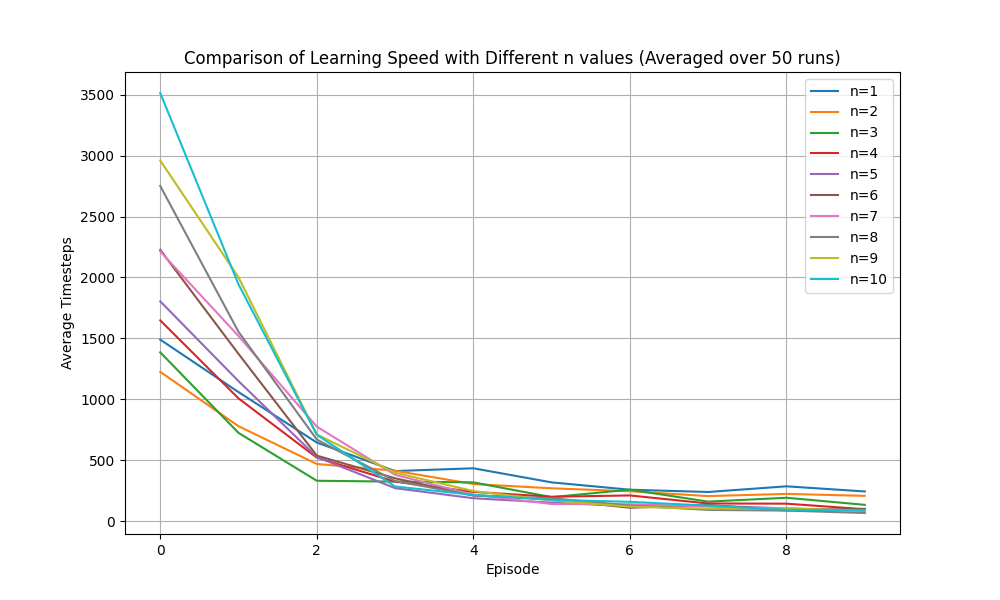
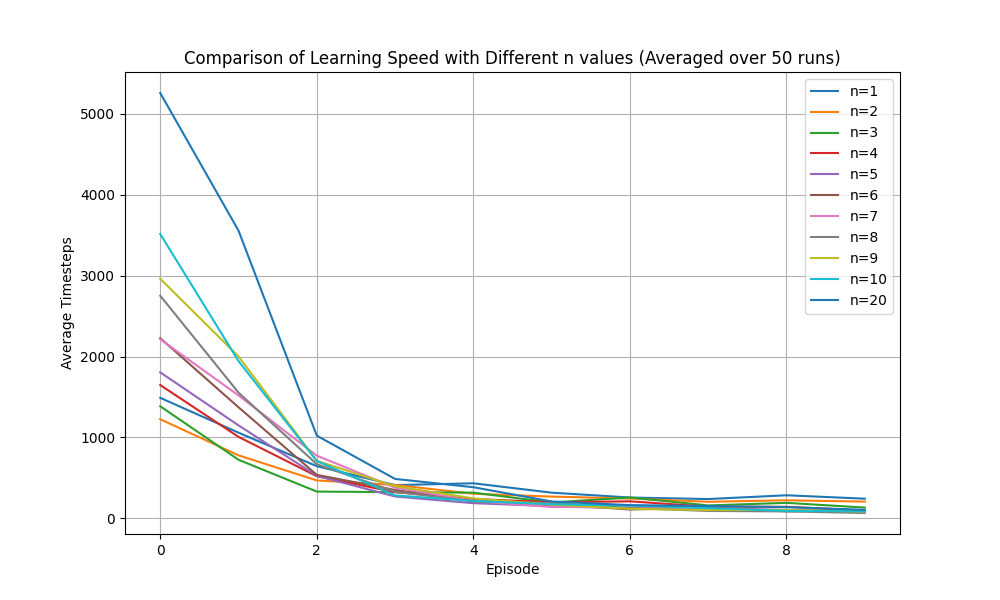
sarsa lambda

diff --git a/experiments/wendy_grid_world/sarsa_lambda.py b/experiments/wendy_grid_world/sarsa_lambda.py
@@ -1,0 +1,74 @@
+"""
+    Use Sarsa Lambda to solve Wendy Grid World
+"""
+
+# TODO: Why setting gamma=1 and lambda=1 will cause divergence of Q? Seems like the variance is too big.
+
+import os
+import numpy as np
+import matplotlib.pyplot as plt
+
+from tqdm import tqdm
+from utils.misc_utils import set_seed
+from traditional_algos.td_learning.sarsa import SarsaLambda
+from envs.grid_world import WindyGridWorld
+
+class SarsaLambdaWithLogging(SarsaLambda):
+    def estimation_and_control(self, num_episode):
+        self.reset()
+        episode_lengths = []  # List to record the length of each episode
+        for _ in range(num_episode):
+            state, info = self.env.reset()
+            done = False
+            action = np.random.choice(np.arange(self.num_action), p=self.policy[state])
+            
+            t = 0  # Time step
+
+            while not done:
+                next_state, reward, terminated, truncated, info = self.env.step(action)
+                done = terminated or truncated
+                next_action = self.update_q_function(state, action, reward, next_state)
+                self.improve_policy(state)
+                state = next_state
+                action = next_action
+
+                t += 1  # Increment the time step
+
+            episode_lengths.append(t)  # Record the length of the current episode
+
+        return episode_lengths
+
+if __name__ == '__main__':
+    set_seed()
+    log_dir = os.path.dirname(os.path.abspath(__file__))
+    ##### 0. Load environment #####
+    env = WindyGridWorld(max_episode_length=False)
+    
+    # Instantiate the SarsaLambdaWithLogging class with different values of λ
+    lambda_values = [0.0, 0.1, 0.2, 0.5, 0.8, 0.9, 0.92, 0.95, 0.97, 0.99, 1.0]  # λ values from 0.0 to 1.0
+    
+    num_episode = 10
+    num_runs = 50
+
+    plt.figure(figsize=(10, 6))
+
+    for lambda_ in lambda_values:
+        all_runs_episode_lengths = []
+        for _ in tqdm(range(num_runs), desc=f'λ={lambda_:.2f}', leave=False):
+            agent = SarsaLambdaWithLogging(env=env, gamma=0.9, lambda_=lambda_)
+            episode_lengths = agent.estimation_and_control(num_episode=num_episode)
+            all_runs_episode_lengths.append(episode_lengths)
+        
+        # Compute the average episode lengths across runs
+        avg_episode_lengths = np.mean(all_runs_episode_lengths, axis=0)
+        
+        # Plot the average episode lengths for this λ value
+        plt.plot(range(num_episode), avg_episode_lengths, label=f"λ={lambda_:.1f}")
+
+    plt.xlabel('Episode')
+    plt.ylabel('Average Timesteps')
+    plt.title(f'Comparison of Learning Speed with Different λ values (Averaged over {num_runs} runs)')
+    plt.legend()
+    plt.grid(True)
+    plt.savefig(os.path.join(log_dir, 'sarsa_lambda_comparison_avg.png'))
+    plt.show()

diff --git a/traditional_algos/td_learning/sarsa/sarsa_lambda.py b/traditional_algos/td_learning/sarsa/sarsa_lambda.py
@@ -1,0 +1,26 @@
+import numpy as np
+import gymnasium as gym
+
+from .sarsa import Sarsa
+
+class SarsaLambda(Sarsa):
+    def __init__(self, env: gym.Env, gamma=1.0, epsilon=0.1, alpha=0.1, lambda_=0.9):
+        super().__init__(env, gamma, epsilon, alpha)
+        self.lambda_ = lambda_  # Eligibility trace decay rate
+
+    def reset(self):
+        super().reset()
+        self.eligibility_trace = np.zeros_like(self.Q)  # Reset eligibility traces
+
+    def update_q_function(self, state, action, reward, next_state):
+        next_action = np.random.choice(np.arange(self.num_action), p=self.policy[next_state])
+        
+        # Update eligibility trace for current state-action pair
+        self.eligibility_trace[state][action] += 1
+
+        # Update all Q-values and decay eligibility traces
+        td_error = reward + self.gamma * self.Q[next_state][next_action] - self.Q[state][action]
+        self.Q += self.alpha * td_error * self.eligibility_trace
+        self.eligibility_trace *= self.gamma * self.lambda_
+
+        return next_action

diff --git a/experiments/wendy_grid_world/n_step_sarsa.py b/experiments/wendy_grid_world/n_step_sarsa.py
@@ -2,6 +2,8 @@
     Use N Step Sarsa to solve Wendy Grid World
 """
 
+# Setting n=1000 won't diverge, seems like it's stabler than sarsa lambda with setting a big lambda like 1
+
 import os
 import numpy as np
 import matplotlib.pyplot as plt
@@ -67,6 +69,7 @@ if __name__ == '__main__':
     
     # Instantiate the NStepSarsaWithLogging class with different values of n
     n_values = [i+1 for i in range(10)]
+    n_values.append(20)
     num_episode = 10
     num_runs = 50
 

diff --git a/traditional_algos/td_learning/q_learning/semi_gradient_q_learning.py b/traditional_algos/td_learning/q_learning/semi_gradient_q_learning.py
@@ -16,7 +16,6 @@ class SemiGradientQLearning(QLearning):
         # self.weights = np.ones((self.num_action, self.feature_dim))     
         # self.weights = np.array([[1.0, 1.0, 1.0, 1.0, 1.0, 1.0, 10.0, 1.0],
         #                          [1.0, 1.0, 1.0, 1.0, 1.0, 1.0, 10.0, 1.0]])
-        
 
     def default_feature_function(self, state):
         """

diff --git a/traditional_algos/td_learning/sarsa/__init__.py b/traditional_algos/td_learning/sarsa/__init__.py
@@ -1,2 +1,4 @@
 from .sarsa import Sarsa, ExpectedSarsa
 from .n_step_sarsa import NStepSarsa
+from .sarsa_lambda import SarsaLambda
+
